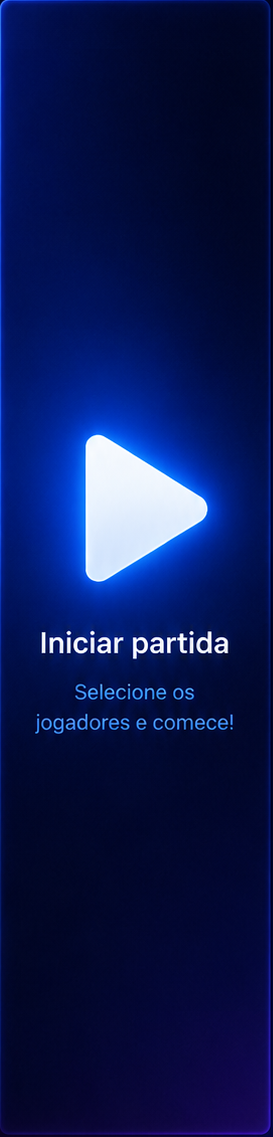
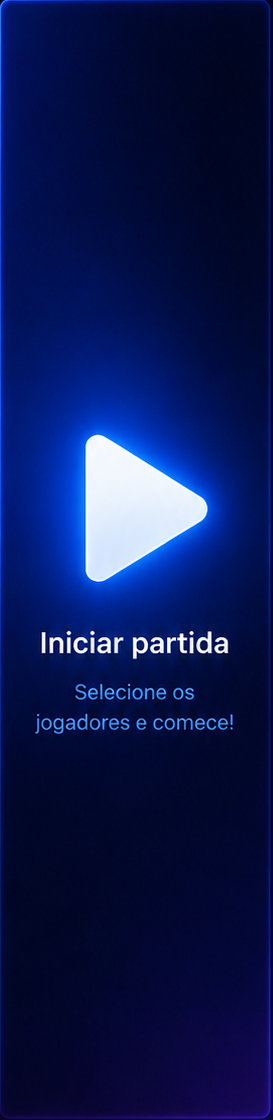
dfsf

Changed region(s): [[0.1172, 0.375, 0.8498, 0.6562], [0.7619, 0.9688, 0.8791, 1.0], [0.9084, 0.9688, 0.9377, 1.0]]

diff --git a/frontend/src/components/GamesScreen/GamesScreen.css b/frontend/src/components/GamesScreen/GamesScreen.css
@@ -145,17 +145,19 @@
 
     justify-content:center;
 
-    background:rgb(122, 123, 123);
+    background:rgb(122,123,123);
+
+    overflow:hidden;
 
 }
 
 .play-game-image{
 
-    width:90px;
+    width:100%;
 
-    height:auto;
+    height:100%;
 
-    object-fit:contain;
+    object-fit:cover;
 
     cursor:pointer;
 
@@ -165,7 +167,7 @@
 
 .play-game-image:hover{
 
-    transform:scale(1.05);
+    transform:scale(1.02);
 
 }
 